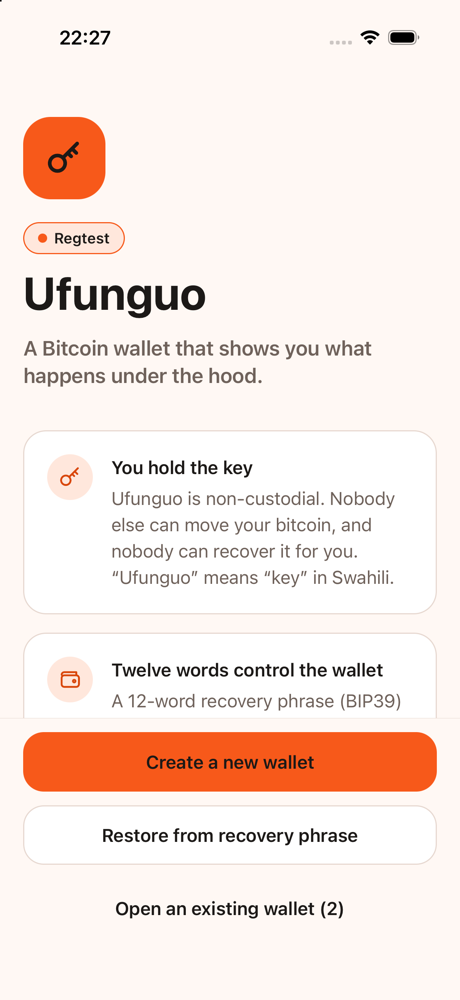
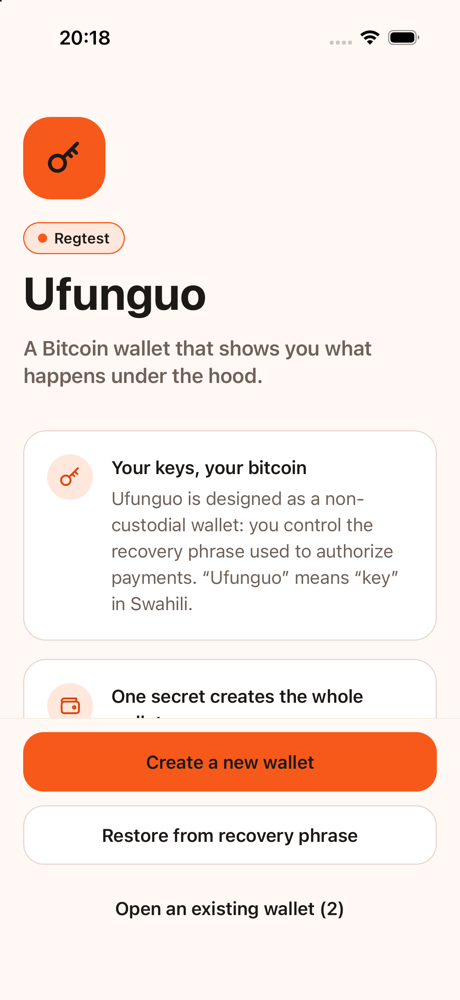
Fix: change screenshots

diff --git a/README.md b/README.md
@@ -23,9 +23,10 @@ Ufunguo is a transparent, non-custodial Bitcoin wallet built in Rust, with a bar
 - A mobile app (iOS first, Android compatible) with onboarding, receive/send journeys, a transaction review diagram, confirmation timelines and a **Bitcoin Lab** for addresses, UTXOs, derivation paths and PSBTs
 
 <p align="center">
-  <img src="docs/screenshots/home.png" width="200" alt="Home" />
-  <img src="docs/screenshots/lab.png" width="200" alt="Bitcoin Lab" />
-  <img src="docs/screenshots/transaction.png" width="200" alt="Transaction timeline" />
+  <img src="docs/screenshots/onboarding.png" width="180" alt="Onboarding" />
+  <img src="docs/screenshots/create-wallet.png" width="180" alt="Create wallet" />
+  <img src="docs/screenshots/restore-wallet.png" width="180" alt="Restore wallet" />
+  <img src="docs/screenshots/home.png" width="180" alt="Home" />
 </p>
 
 ## Architecture

diff --git a/docs/mobile-demo.md b/docs/mobile-demo.md
@@ -133,9 +133,13 @@ The phrase file may hold the bare phrase or the JSON returned by `POST /api/wall
 
 ## Screenshots
 
-| Onboarding | Home | Receive | Bitcoin Lab |
-|---|---|---|---|
-| ![Onboarding](screenshots/onboarding.png) | ![Home](screenshots/home.png) | ![Receive](screenshots/receive.png) | ![Lab](screenshots/lab.png) |
+| Onboarding | Create wallet | Restore wallet |
+|---|---|---|
+| ![Onboarding](screenshots/onboarding.png) | ![Create wallet](screenshots/create-wallet.png) | ![Restore wallet](screenshots/restore-wallet.png) |
+
+| Home | Receive | Bitcoin Lab |
+|---|---|---|
+| ![Home](screenshots/home.png) | ![Receive](screenshots/receive.png) | ![Lab](screenshots/lab.png) |
 
 | Send | Transaction | Activity |
 |---|---|---|
